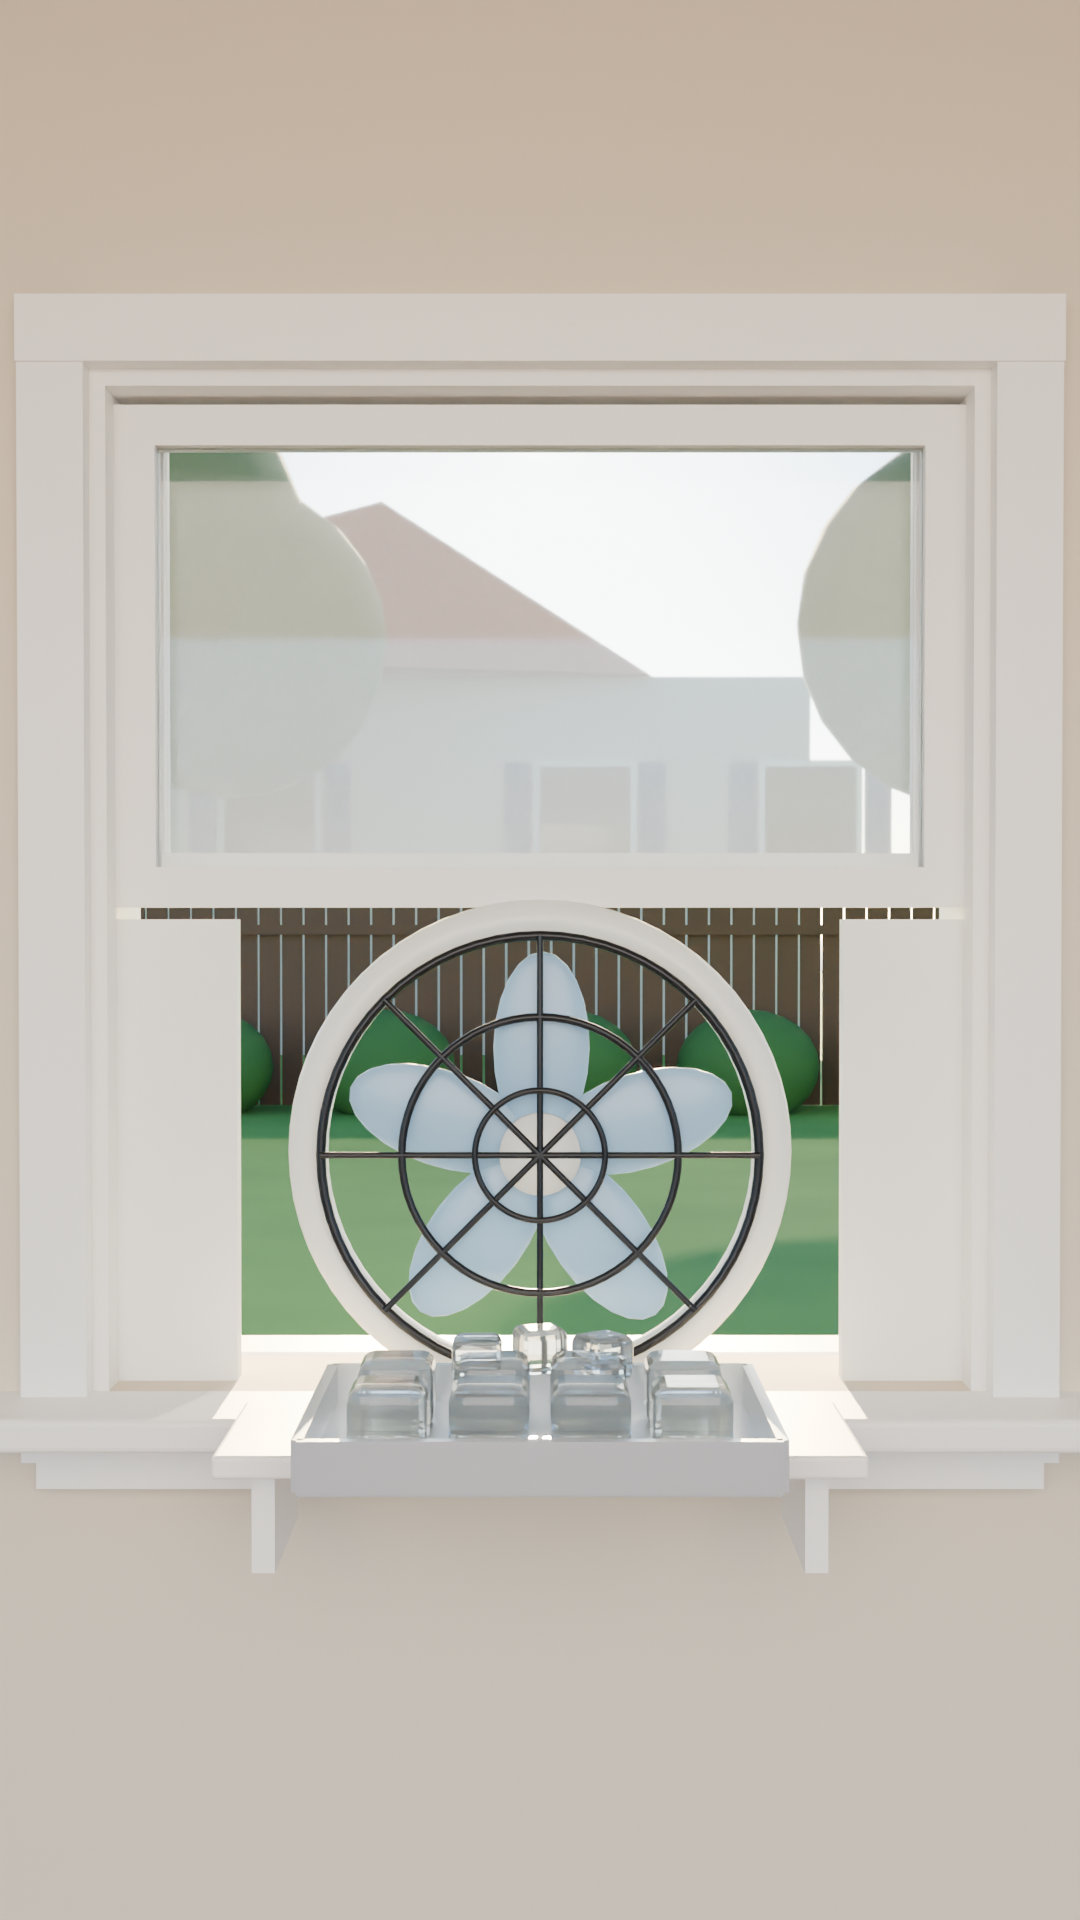
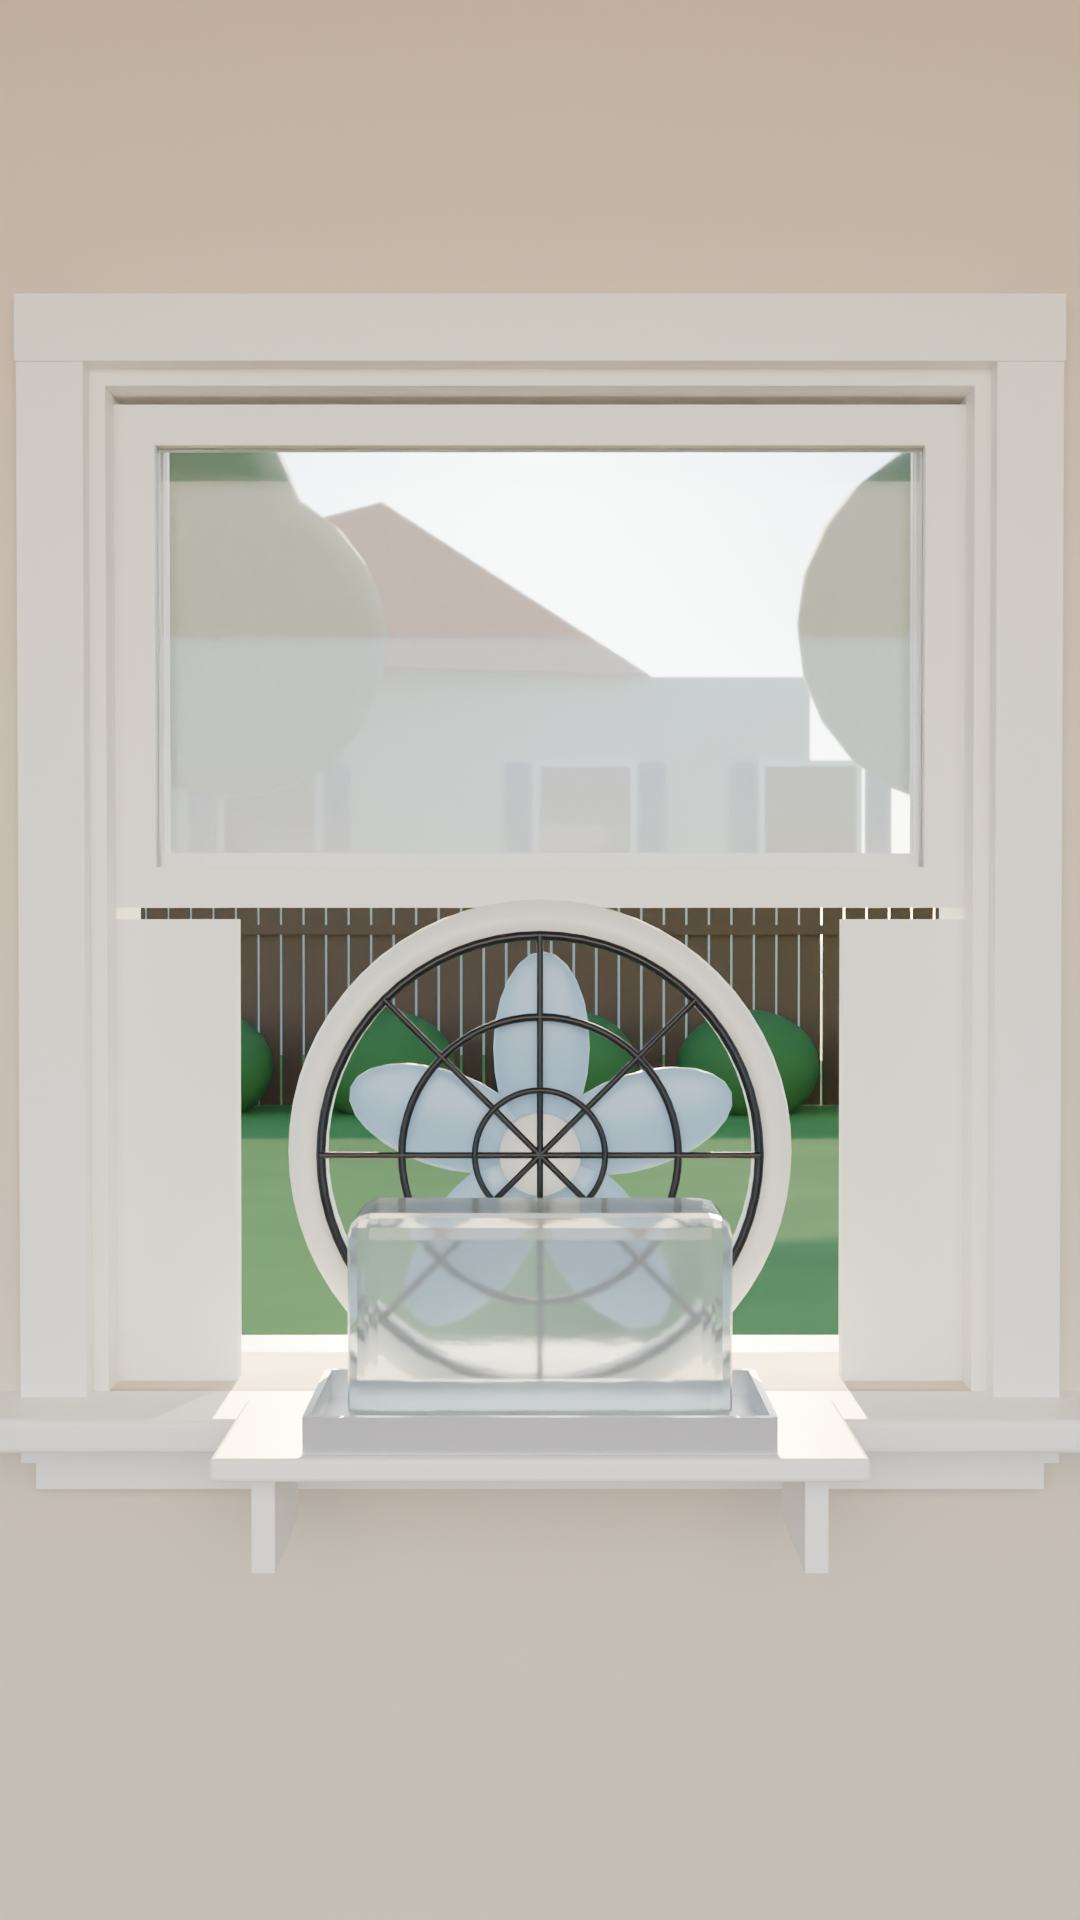
Air conditioning Short: one big ice block instead of cubes (step 4)
Claude-Session: https://claude.ai/code/session_01GXcKc2bonZqTw7BuWx5hWf

Changed region(s): [[0.2444, 0.625, 0.7333, 0.7812]]

diff --git a/air-conditioning/blender/ac_build.py b/air-conditioning/blender/ac_build.py
@@ -47,16 +47,21 @@ def window_fan(M, z0):
 
 
 def ice_tray_on_sill(M, z0):
-    """A deeper shelf on the window stool + a tray of ice cubes right in front of the fan."""
-    A.box("Shelf", (0.7, 0.24, 0.025), (0, -0.2, z0 - 0.005), M["trim"], bevel=0.005)
+    """A shelf on the window stool + ONE big ice block (in a shallow tray) right in front of the fan."""
+    A.box("Shelf", (0.7, 0.26, 0.025), (0, -0.2, z0 - 0.005), M["trim"], bevel=0.005)
     A.box("ShelfBracketL", (0.025, 0.2, 0.12), (-0.3, -0.18, z0 - 0.07), M["trim"])
     A.box("ShelfBracketR", (0.025, 0.2, 0.12), (0.3, -0.18, z0 - 0.07), M["trim"])
-    A.build_tray(M, loc=(0, -0.2, z0 + 0.008))
-    for o in [o for o in bpy.data.objects if o.name.startswith(("Tray", "Ice"))]:
-        o.scale = (1.5, 1.5, 1.5); o.location.z = z0 + 0.008 + (o.location.z - z0 - 0.008) * 1.5
-    # a few extra cubes piled on top (reads as "a lot of ice")
-    for i, (dx, dy) in enumerate(((-0.07, -0.02), (0.0, 0.03), (0.07, -0.01))):
-        A.box(f"IceTop{i}", (0.055, 0.055, 0.05), (dx, -0.2 + dy, z0 + 0.09), M["ice"], bevel=0.01, rot=(0, 0, 0.3 * i))
+    zt = z0 + 0.008
+    A.box("TrayBase", (0.5, 0.22, 0.01), (0, -0.2, zt + 0.005), M["tray"])
+    for nm, sz, l in (("TrayF", (0.5, 0.008, 0.04), (0, -0.31, zt + 0.02)), ("TrayB", (0.5, 0.008, 0.04), (0, -0.09, zt + 0.02)),
+                      ("TrayL", (0.008, 0.22, 0.04), (-0.25, -0.2, zt + 0.02)), ("TrayR", (0.008, 0.22, 0.04), (0.25, -0.2, zt + 0.02))):
+        A.box(nm, sz, l, M["tray"])
+    ice = A.mat("IceBlock", (0.82, 0.93, 1.0), 0.12, transmission=0.85)
+    nt = ice.node_tree                                       # frosty, slightly uneven surface
+    nz = nt.nodes.new("ShaderNodeTexNoise"); nz.inputs["Scale"].default_value = 18
+    bm = nt.nodes.new("ShaderNodeBump"); bm.inputs["Strength"].default_value = 0.25
+    nt.links.new(nz.outputs["Fac"], bm.inputs["Height"]); nt.links.new(bm.outputs["Normal"], nt.nodes["Principled BSDF"].inputs["Normal"])
+    A.box("IceBlock", (0.42, 0.17, 0.24), (0, -0.2, zt + 0.13), ice, bevel=0.025)
 
 
 def main():
